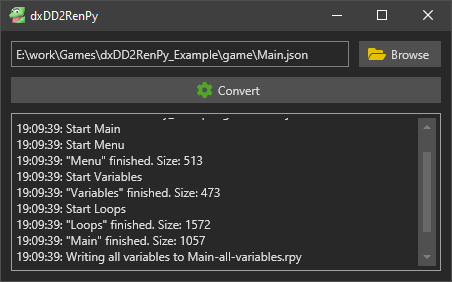
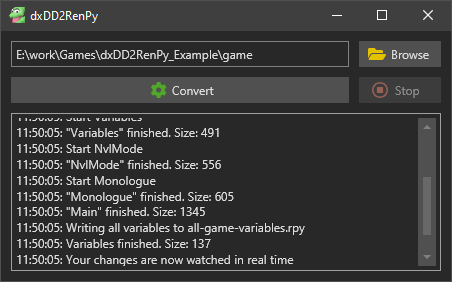
Update readme

diff --git a/Readme.md b/Readme.md
@@ -5,6 +5,8 @@ You may want to create you Visual Novel game visually, in a diagram-like way. [D
 
 dxDD2RenPy is a cross platform application. It works on: Windows, Linux, Mac OS X. Just run "exe" in the archive on your operation system.
 
+dxDD2RenPy will monitor your changes automatically, you do not need to alt-tab to the converter after each save in Dialogue Designer - rpy-files will be updated automatically while dxDD2RenPy is running.
+
 ## Get the tool:
 Download latest release: 
 <https://github.com/DeXP/dxDD2RenPy/releases/latest>
@@ -14,6 +16,7 @@ Download latest release:
 * [Support Steam-thread](https://steamcommunity.com/app/1273620/discussions/0/2262439317604694498/)
 * [You can get more complicated example here](https://github.com/DeXP/dxDD2RenPy_Example)
 * [Or even run this example online](https://dexp.github.io/dxDD2RenPy_Example)
+* [General Ren'Py tutorial](http://onemangaday.dexp.in/tutorials/simple-game-in-renpy.html)
 
 ## Info
 
